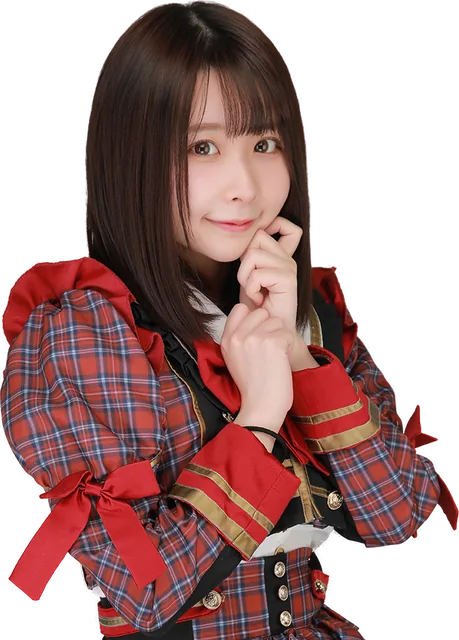
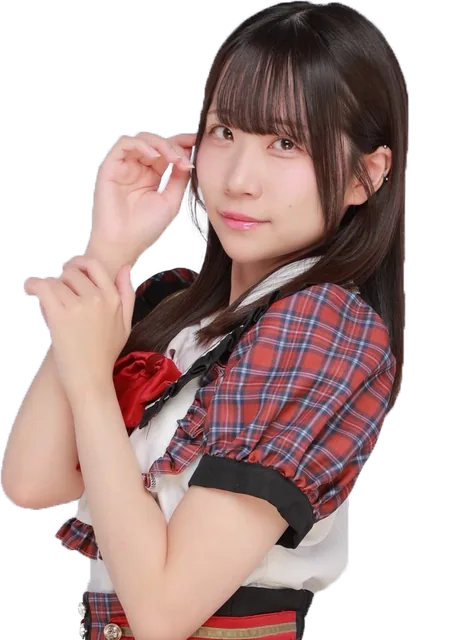
大阪メルヘン新デザイン：トップ画像を差し替え、衣装セクションのキャスト写真を新しい5人に変更
Claude-Session: https://claude.ai/code/session_01EPNgeNaBENTggWgXCSDCoQ

diff --git a/stores/osaka-marchen-new.html b/stores/osaka-marchen-new.html
@@ -37,7 +37,7 @@
 <meta property="og:title" content="大阪メルヘン キャスト募集｜かわいい衣装で、歌って踊って、楽しく働こ♡">
 <meta property="og:description" content="梅田のコンカフェ。未経験OK・接客のみでもOK・レッスン無料・時給1,800円〜2,500円・送りあり（関西全域）。">
 <meta property="og:url" content="https://form.insou-job.com/stores/osaka-marchen.html">
-<meta property="og:image" content="https://form.insou-job.com/images/osaka-marchen-og.jpg">
+<meta property="og:image" content="https://form.insou-job.com/images/osaka-marchen-og.jpg?v=2">
 <link rel="preconnect" href="https://fonts.googleapis.com">
 <link rel="preconnect" href="https://fonts.gstatic.com" crossorigin>
 <link href="https://fonts.googleapis.com/css2?family=M+PLUS+Rounded+1c:wght@400;500;700;800;900&family=Zen+Maru+Gothic:wght@500;700;900&display=swap" rel="stylesheet">
@@ -320,8 +320,8 @@ footer .logo{width:120px;height:auto;margin:0 auto 12px}
 <header class="hero">
   <h1 class="vh">大阪・梅田のアイドルコンカフェ「大阪メルヘン」キャスト募集中。かわいい衣装で、歌って踊ろう！時給1,800円〜2,500円・未経験OK・接客のみでもOK</h1>
   <picture class="hero-banner">
-    <source media="(max-width: 767px)" srcset="/images/osaka-marchen-hero-sp.jpg">
-    <img src="/images/osaka-marchen-hero.jpg" width="1600" height="903" alt="大阪・梅田のアイドルコンカフェ 大阪メルヘン キャスト募集中♡ かわいい衣装で、歌って踊ろう！ 時給1,800〜2,500円 未経験OK 接客のみでもOK" fetchpriority="high">
+    <source media="(max-width: 767px)" srcset="/images/osaka-marchen-hero-sp.jpg?v=2">
+    <img src="/images/osaka-marchen-hero.jpg?v=2" width="1600" height="903" alt="大阪・梅田のアイドルコンカフェ 大阪メルヘン キャスト募集中♡ かわいい衣装で、歌って踊ろう！ 時給1,800〜2,500円 未経験OK 接客のみでもOK" fetchpriority="high">
   </picture>
   <div class="h-cta">
     <p class="lead">未経験でも、接客だけでもOK。<br class="sp">レッスンは全部無料だから安心してね。</p>
@@ -353,11 +353,11 @@ footer .logo{width:120px;height:auto;margin:0 auto 12px}
 <section aria-labelledby="costume-h" style="padding-top:10px">
   <div class="ttl"><span class="en" style="background:var(--yellow);color:var(--ink)">COSTUME</span><h2 id="costume-h">かわいい<em>オリジナル衣装</em>♡</h2><p>実際にメルヘンで働くキャストです</p></div>
   <div class="costume">
-    <figure style="--c:#ffe3ee;--c2:#ffc2d8"><img src="/images/osaka-marchen-cut-2.webp" alt="ピンクチェックの衣装のキャスト" width="416" height="640" loading="lazy"></figure>
-    <figure style="--c:#fff3d1;--c2:#ffe08a"><img src="/images/osaka-marchen-cut-1.webp" alt="赤チェックの衣装のキャスト" width="490" height="640" loading="lazy"></figure>
-    <figure style="--c:#e1f8f2;--c2:#bfeee2"><img src="/images/osaka-marchen-cut-4.webp" alt="ブルーチェックの衣装のキャスト" width="452" height="640" loading="lazy"></figure>
-    <figure style="--c:#efe6ff;--c2:#d9c7ff"><img src="/images/osaka-marchen-cut-3.webp" alt="赤リボンの衣装のキャスト" width="435" height="640" loading="lazy"></figure>
-    <figure style="--c:#ffe3ee;--c2:#ffc2d8"><img src="/images/osaka-marchen-cut-5.webp" alt="赤チェックの衣装のキャスト（別デザイン）" width="459" height="640" loading="lazy"></figure>
+    <figure style="--c:#ffe3ee;--c2:#ffc2d8"><img src="/images/osaka-marchen-cut-1.webp?v=2" alt="メルヘンのオリジナル衣装を着たキャスト1" width="474" height="640" loading="lazy"></figure>
+    <figure style="--c:#fff3d1;--c2:#ffe08a"><img src="/images/osaka-marchen-cut-2.webp?v=2" alt="メルヘンのオリジナル衣装を着たキャスト2" width="474" height="640" loading="lazy"></figure>
+    <figure style="--c:#e1f8f2;--c2:#bfeee2"><img src="/images/osaka-marchen-cut-3.webp?v=2" alt="メルヘンのオリジナル衣装を着たキャスト3" width="491" height="640" loading="lazy"></figure>
+    <figure style="--c:#efe6ff;--c2:#d9c7ff"><img src="/images/osaka-marchen-cut-4.webp?v=2" alt="メルヘンのオリジナル衣装を着たキャスト4" width="474" height="640" loading="lazy"></figure>
+    <figure style="--c:#ffe3ee;--c2:#ffc2d8"><img src="/images/osaka-marchen-cut-5.webp?v=2" alt="メルヘンのオリジナル衣装を着たキャスト5" width="474" height="640" loading="lazy"></figure>
   </div>
   <p class="swipe">← 横にスワイプ →</p>
 </section>
